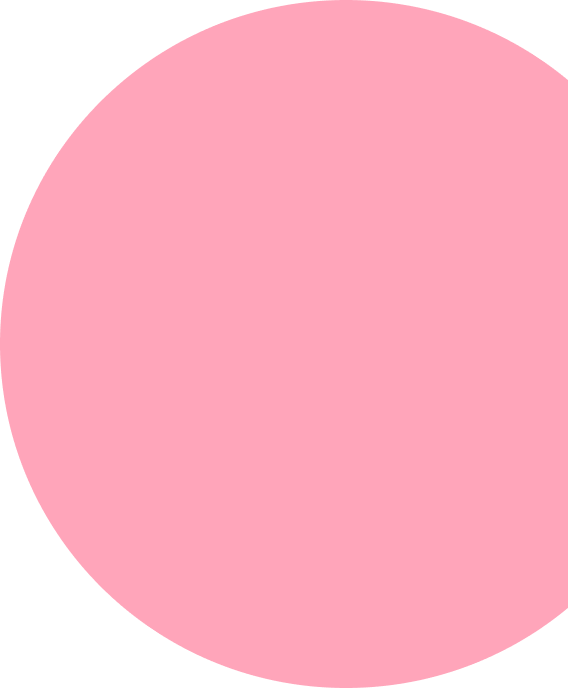
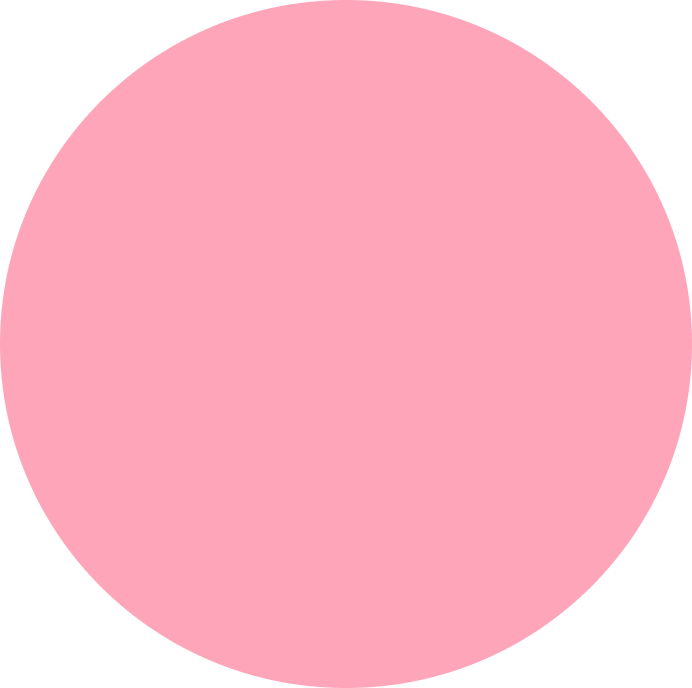
added bg sizes

diff --git a/src/sass/partials/_header.scss b/src/sass/partials/_header.scss
@@ -89,6 +89,7 @@
   @media (min-device-pixel-ratio: 2), (min-resolution: 192dpi), (min-resolution: 2dppx) {
     background-image: url('../images/mobileHeaderPic2@2x.png'),
       url('../images/mobileHeaderEllipse@2x.png');
+    background-size: 171px 410px, 346px 344px;
   }
   @keyframes icecream {
     0% {
@@ -239,6 +240,7 @@
     @media (min-device-pixel-ratio: 2), (min-resolution: 192dpi), (min-resolution: 2dppx) {
       background-image: url('/src/images/tabletHeaderPic3@2x.png'),
         url('/src/images/tabletHeaderPic2@2x.png'), url('/src/images/tabletHeaderEllipse@2x.png');
+      background-size: 168px 133px, 143px 336px, 324px 322px;
     }
     @keyframes icecream {
       0% {
@@ -379,6 +381,7 @@
     @media (min-device-pixel-ratio: 2), (min-resolution: 192dpi), (min-resolution: 2dppx) {
       background-image: url('/src/images/desktopHeaderPic3@2x.png'),
         url('/src/images/desktopHeaderPic2@2x.png'), url('/src/images/desktopHeaderEllipse@2x.png');
+      background-size: 293px 232px, 236px 557px, 538px 538px;
     }
     @keyframes icecream {
       0% {

diff --git a/src/partials/header.html b/src/partials/header.html
@@ -10,7 +10,7 @@
             <a href="#tradition_and_love" class="header__nav-link">About us</a>
           </li>
           <li class="header__nav-item">
-            <a href="tradition_and_love" class="header__nav-link">How it's made?</a>
+            <a href="#tradition_and_love" class="header__nav-link">How it's made?</a>
           </li>
           <li><a href="#products" class="header__nav-link">Our products</a></li>
           <li class="header__nav-item"><a href="#footer" class="header__nav-link">Contact</a></li>
@@ -68,7 +68,7 @@
           <a href="#products" class="header__head-link--1">Products</a>
         </button>
         <button class="header__bttn header__bttn--how">
-          <a href="tradition_and_love" class="header__head-link--2"> How it's made?</a>
+          <a href="#tradition_and_love" class="header__head-link--2"> How it's made?</a>
         </button>
       </div>
     </div>
